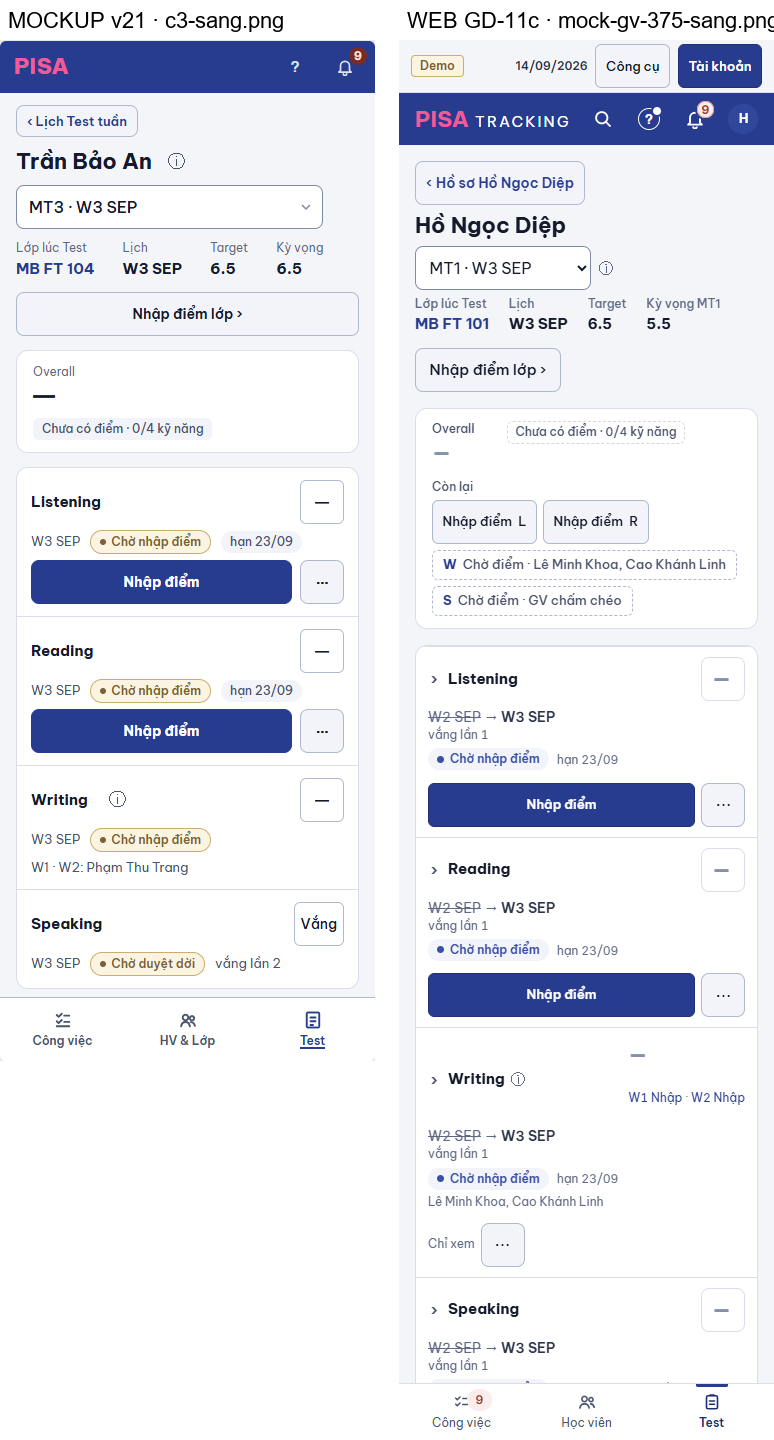
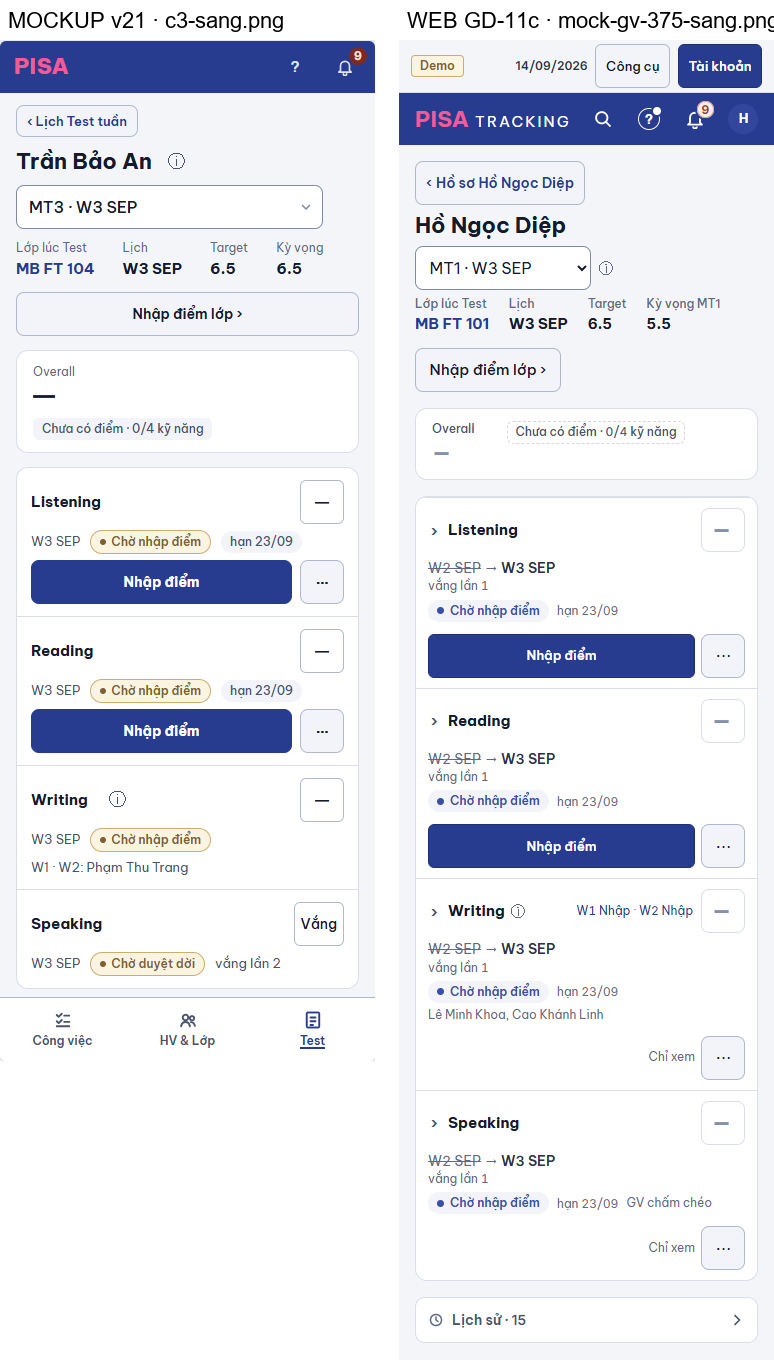
GD-11c: 375 thẻ Writing cùng dáng, ⋯ thẳng hàng; ẩn Còn lại ở 375

diff --git a/web/src/modules/fasttrack/MockDetailPage.tsx b/web/src/modules/fasttrack/MockDetailPage.tsx
@@ -141,7 +141,7 @@ type DotCuaHv = {
  * Lưới một dòng kỹ năng của bảng kết quả (khung M4-A): Kỹ năng · Lịch · Điểm · Trạng thái · Nhận xét · Case · thao tác. Dưới `md` mỗi kỹ năng là
  * một thẻ: tên + điểm, rồi lịch · trạng thái, nhận xét · Case, nút (các nhóm `md:contents` thành ô lưới ở màn rộng).
  */
-const ROW_GRID = 'grid grid-cols-[minmax(0,1fr)_7.5rem] gap-x-3 gap-y-1.5 md:grid-cols-[9rem_8.5rem_7.5rem_150px_minmax(8rem,1fr)_minmax(8rem,1fr)_12rem] md:items-center';
+const ROW_GRID = 'grid grid-cols-[minmax(0,1fr)_auto] gap-x-3 gap-y-1.5 md:grid-cols-[9rem_8.5rem_7.5rem_150px_minmax(8rem,1fr)_minmax(8rem,1fr)_12rem] md:items-center';
 
 export default function MockDetailPage() {
   const { id } = useParams();
@@ -491,8 +491,9 @@ function ODiemOverall({ band, kyVong }: { band: number; kyVong: number | null })
 
 /** "Còn lại" của tóm tắt lượt (khung M4-A ③): việc của người xem = nút (mở tại chỗ, G6 — không "›"); việc người khác chỉ đọc. FT + lớp thường dùng chung. */
 export function ConLaiLuot({ ds: conLai }: { ds: ViecConLai[] }) {
+  /* GD-11c (PTA rà 375, lời 40): 375 không có khối "Còn lại" — mỗi việc đã là nút trong thẻ kỹ năng ngay dưới (mockup C3); 1440 giữ. */
   return (
-    <div className="min-w-0 max-sm:w-full sm:ml-auto sm:text-right">
+    <div className="min-w-0 max-sm:hidden sm:ml-auto sm:text-right">
       <span className="block text-xs font-medium text-slate-400">{conLai.length ? t('Còn lại') : t('Không còn việc')}</span>
       {conLai.length > 0 && (
         <ul className="m-0 mt-1 flex list-none flex-wrap gap-1.5 p-0 sm:justify-end">
@@ -937,7 +938,8 @@ function BangKetQuaLuot({ d, homNay, chiDoc, moKn, onMoKn, moO, onMoO, save, onD
               )}
             </div>
           </div>
-          <div role="cell" className="col-span-2 flex flex-wrap items-center gap-1.5 md:col-span-1 md:col-start-7 md:row-start-1 md:justify-end">
+          {/* GD-11c (PTA rà 375): hàng nút cuối thẻ — ⋯ luôn sát phải (thẻ chỉ có "Chỉ xem" + ⋯ cũng thẳng ⋯ của thẻ khác). */}
+          <div role="cell" className="col-span-2 flex flex-wrap items-center justify-end gap-1.5 md:col-span-1 md:col-start-7 md:row-start-1">
             {chinh && (
               <button type="button" data-chinh className={`btn btn-sm min-h-[44px] max-md:flex-1 max-md:justify-center sm:min-h-0 ${nhanChinh === CHU_THAO_TAC['sua-diem'] ? '' : 'btn-primary'}`} onClick={() => chay(chinh, chinhO)}>{nhanChinh}</button>
             )}

diff --git a/web/src/modules/fasttrack/ODiemLon.tsx b/web/src/modules/fasttrack/ODiemLon.tsx
@@ -174,7 +174,8 @@ export function useODiem({ cells, lich, result, lichSu, homNay, mo, onMo: onMoCh
     const thieu = bai.filter((c) => c.thieuNhanXet).map((c) => `${laW ? `${c.skill === 'writing1' ? 'W1' : 'W2'} ` : ''}${CHU_O_THIEU[c.thieuNhanXet!]}`);
     const vo = `flex min-w-0 flex-col rounded-lg border text-left ${gon ? 'w-fit justify-center px-2.5 py-1.5 max-sm:min-h-[44px] max-sm:min-w-[44px]' : 'px-3 py-2.5'} ${dangMo ? 'border-[color:var(--accent-strong)] bg-white/[0.04]' : ''}`;
     /* Ô gọn (bảng): chỉ ô bấm được / thiếu nhận xét có viền; dòng phụ (câu · W1 W2) dưới ô, chỉ khi có điểm hoặc là Writing. */
-    const vienGon = gon && !sua && !thieu.length;
+    /* GD-11c (mockup ⑦ C1 · C3): ô Writing luôn là ô có viền như L / R / S — "—" không lơ lửng trên đầu thẻ 375. */
+    const vienGon = gon && !sua && !thieu.length && !laW;
     const o = sua ? (
       <button key={k} type="button" aria-expanded={dangMo} aria-haspopup="dialog" ref={(el) => { neo.current[bai[0].skill] = el; }}
         title={[...thieu, nhapBoi, t('Bấm để nhập / sửa điểm tại chỗ.')].filter(Boolean).join('\n')}
@@ -188,7 +189,12 @@ export function useODiem({ cells, lich, result, lichSu, homNay, mo, onMo: onMoCh
       <div key={k} className={vienGon ? 'flex min-w-0 flex-col py-1.5' : vo} style={vienGon ? undefined : { borderColor: thieu.length ? 'rgb(var(--soon-rgb))' : 'var(--line)' }} title={[...thieu, nhapBoi].filter(Boolean).join('\n') || undefined}>{noiDung}</div>
     );
     /* 375: ô gọn chưa có gì để nói ("—") thì không vẽ — trông như nút thu ở góc thẻ. */
-    return gon ? <div key={k} className={`min-w-0 ${band === null && chuRong === '—' && !sua && !bai.some(suaDuoc) ? 'max-md:hidden' : ''}`}>{o}{(band !== null || (laW && (bai.some(suaDuoc) || bai.some(coDiem)))) && dongPhu}</div> : o;
+    /* GD-11c (PTA rà 375): Writing ở thẻ 375 — dòng "W1 · W2" đứng TRƯỚC ô cùng hàng tên (ô sát phải như L / R / S), không dạt xuống dưới. */
+    return gon ? (
+      <div key={k} className={`min-w-0 ${laW ? 'max-md:flex max-md:flex-row-reverse max-md:items-center max-md:gap-2 max-md:[&>span]:mt-0' : ''} ${band === null && chuRong === '—' && !sua && !bai.some(suaDuoc) && !laW ? 'max-md:hidden' : ''}`}>
+        {o}{(band !== null || (laW && (bai.some(suaDuoc) || bai.some(coDiem)))) && dongPhu}
+      </div>
+    ) : o;
   };
 
   const kqOverall = soKyVong(result.overall, result.expectation);

diff --git a/docs/anh/gd11c-trang-luot-test/khop-khac.md b/docs/anh/gd11c-trang-luot-test/khop-khac.md
@@ -60,3 +60,7 @@ GV `nd-luot` (⋯ Vắng · Huỷ điểm · Khôi phục, một khối Lịch s
 
 ## Đo
 ⋯ dòng kỹ năng so nút chính: 1440 lệch tâm 0 px (36×30 / 30), 375 lệch 0 px (44×44 / 44) — FT + lớp thường.
+
+## Sửa sau rà PTA (375)
+- Thẻ Writing 375 cùng dáng L / R: tên + ô điểm (ô "—" có viền như ô khác) cùng hàng, "W1 Nhập · W2 Nhập" đứng trước ô trên cùng hàng; lịch, trạng thái, người chấm dòng dưới; hàng nút cuối thẻ, ⋯ sát phải. `zoom-ba-cham-375.png`: mép phải ⋯ 4 thẻ (Mock) và 4 thẻ (lớp thường) cùng x = 346 px (lệch 0 px), 1440 cùng x = 1407 px.
+- Khối "Còn lại" ẩn ở 375 (lời 40 — mỗi việc đã là nút trong thẻ kỹ năng, mockup C3); 1440 giữ.
